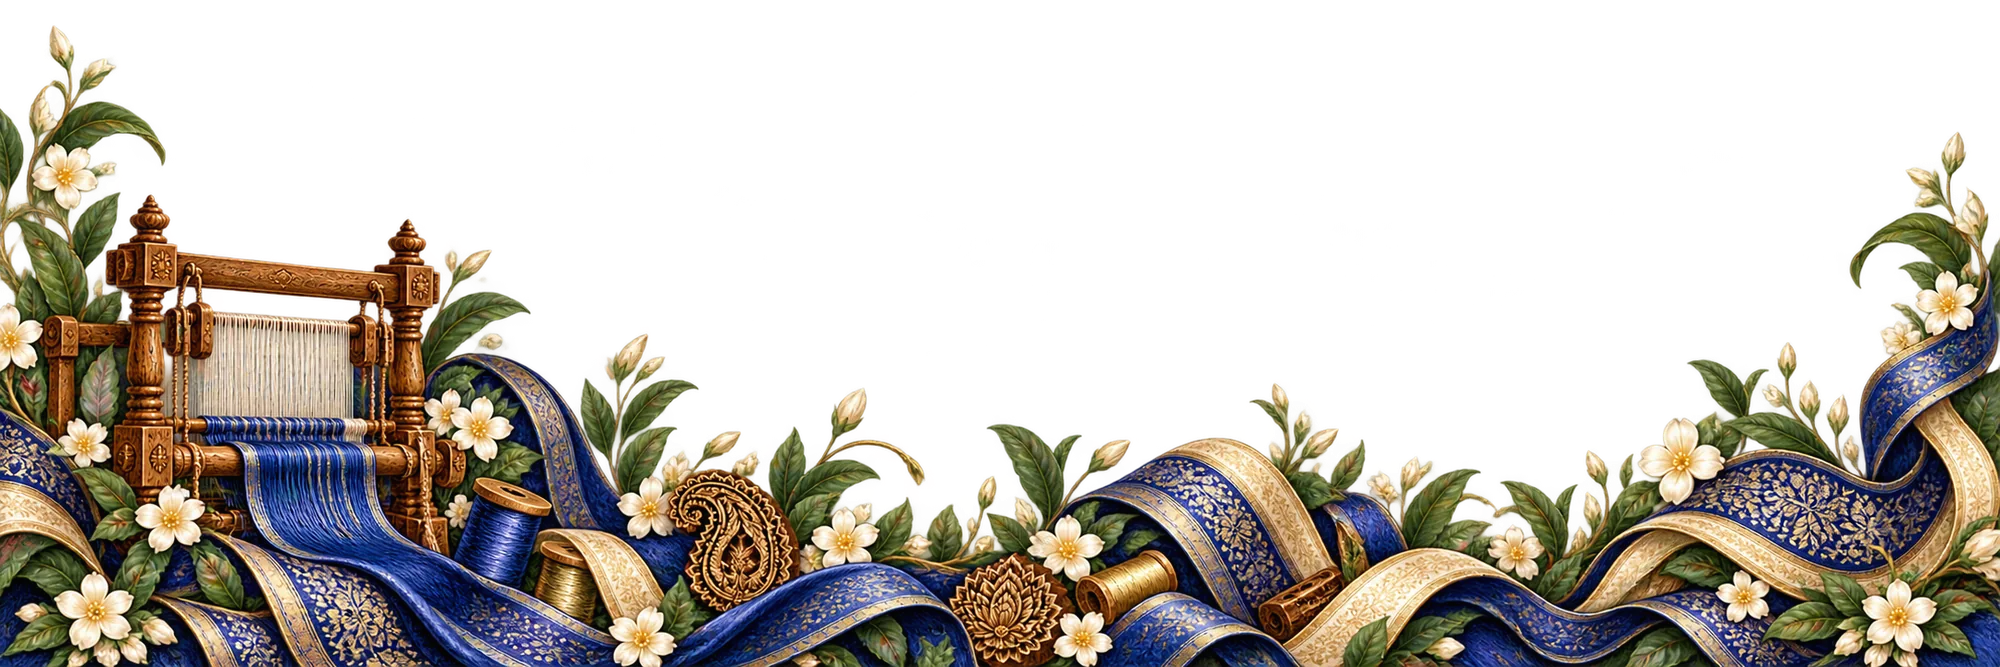
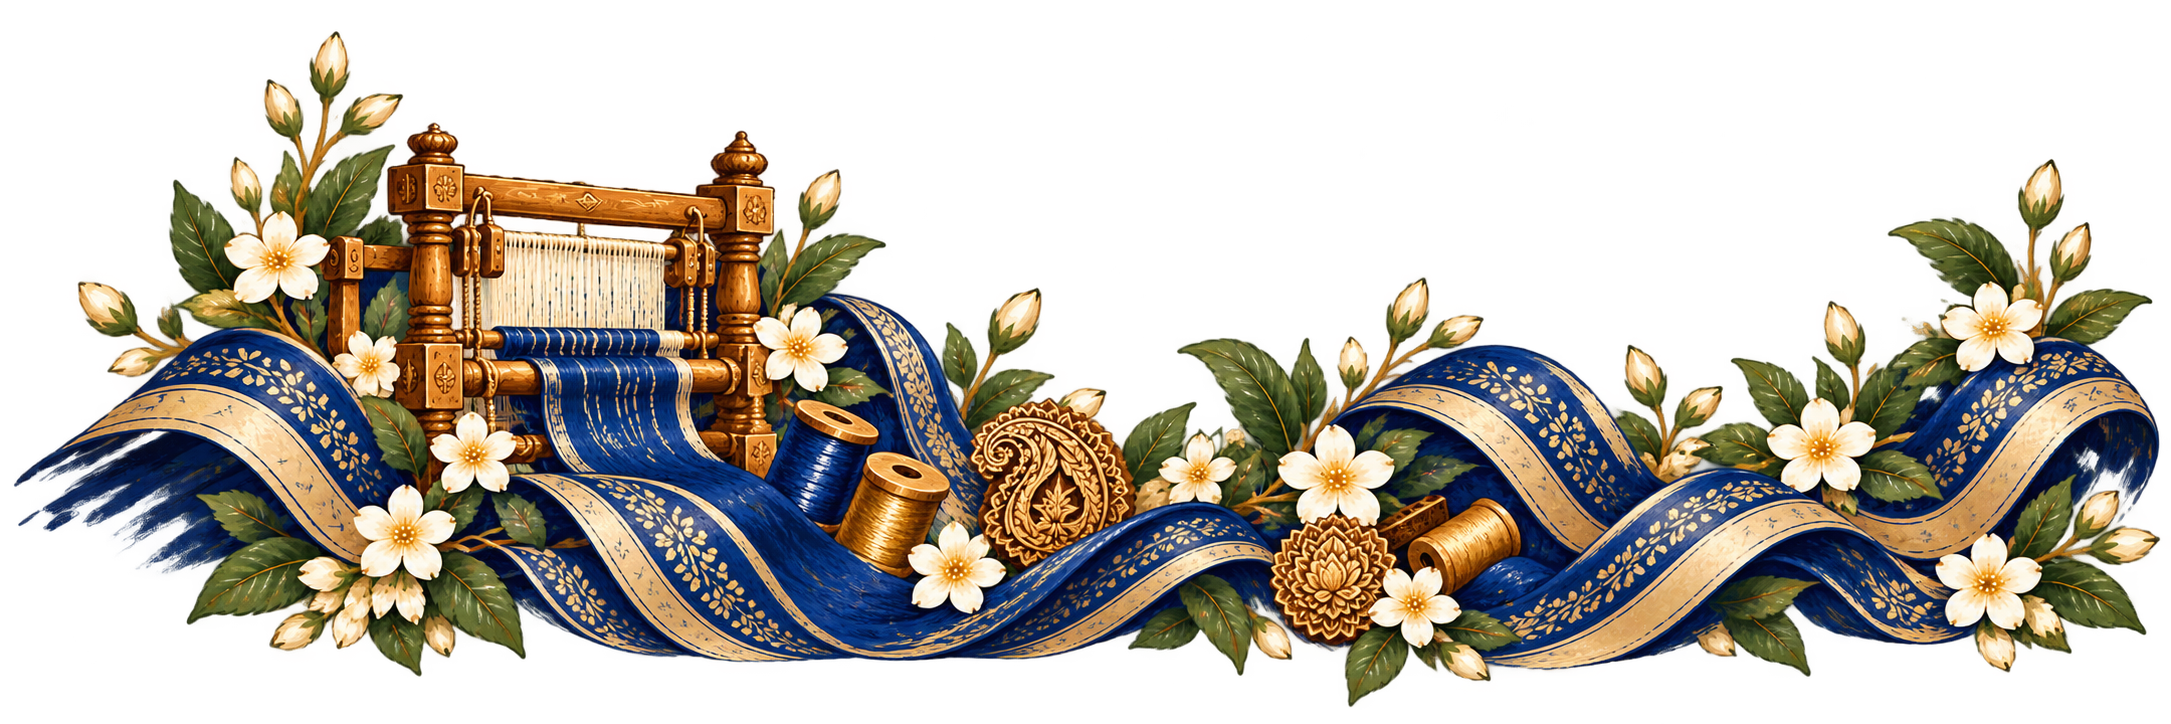
updated the product info 🚀

diff --git a/app/admin/image-cropper.tsx b/app/admin/image-cropper.tsx
@@ -91,13 +91,17 @@ export function CropDialog({ file, onDone, onCancel }: { file: File; onDone: (cr
         />
         {/* thirds grid so composition is easy to judge */}
         <div aria-hidden className="pointer-events-none absolute inset-0 border border-white/70 [background:linear-gradient(to_right,transparent_33%,rgb(255_255_255/.35)_33%,rgb(255_255_255/.35)_calc(33%+1px),transparent_calc(33%+1px),transparent_66%,rgb(255_255_255/.35)_66%,rgb(255_255_255/.35)_calc(66%+1px),transparent_calc(66%+1px)),linear-gradient(to_bottom,transparent_33%,rgb(255_255_255/.35)_33%,rgb(255_255_255/.35)_calc(33%+1px),transparent_calc(33%+1px),transparent_66%,rgb(255_255_255/.35)_66%,rgb(255_255_255/.35)_calc(66%+1px),transparent_calc(66%+1px))]" />
-        {/* head-size guide: a full-length look fills about 90% of the frame, so the head is roughly 1/8 of that, with a little headroom above */}
-        <div aria-hidden className="pointer-events-none absolute left-2 flex items-center gap-1.5" style={{ top: `${HEAD_TOP}%`, height: `${HEAD_LEN}%` }}>
-          <span className="h-full w-2 border-y-2 border-l-2 border-white/90" />
-          <span className="rounded-sm bg-kajal/60 px-1 py-0.5 text-[10px] leading-none text-white">Head</span>
-        </div>
+        {/* head-size guide: two full-width lines like the grid, top of head and chin. A full-length look fills about 90% of the frame, so the head is roughly 1/8 of that, with a little headroom above */}
+        {[
+          [HEAD_TOP, "Top of head"],
+          [HEAD_TOP + HEAD_LEN, "Chin"],
+        ].map(([top, text]) => (
+          <div key={text} aria-hidden className="pointer-events-none absolute inset-x-0 border-t border-dashed border-white/90" style={{ top: `${top}%` }}>
+            <span className="absolute left-1.5 top-0.5 rounded-sm bg-kajal/60 px-1 py-0.5 text-[9px] leading-none text-white">{text}</span>
+          </div>
+        ))}
       </div>
-      <p className="mt-2 text-center text-[11px] text-kajal/50">Line up the head with the bracket for a full-length look.</p>
+      <p className="mt-2 text-center text-[11px] text-kajal/50">Fit the head between the two dashed lines for a full-length look.</p>
       <label className="mt-4 flex items-center gap-3 text-xs">
         Zoom
         <input type="range" min={1} max={MAX_ZOOM} step={0.01} value={zoom} onChange={(e) => changeZoom(+e.target.value)} className="flex-1" />

diff --git a/app/(shop)/product-grid.tsx b/app/(shop)/product-grid.tsx
@@ -26,7 +26,7 @@ export function ProductGrid({ products, row = false, reverse = false }: { produc
         className={`group min-w-0 ${row ? "w-48 min-[400px]:w-56 sm:w-72 lg:w-80 shrink-0 pr-4 sm:pr-6" : ""}`}
       >
         <div className="relative aspect-[4/5] bg-line">
-          {p.badge && <span className="absolute left-0 top-3 z-[1] bg-rani px-2.5 py-1 text-[11px] font-medium uppercase tracking-wider text-mallige">{p.badge}</span>}
+          {p.badge && <span className="absolute bottom-3 left-0 z-[1] bg-rani px-2.5 py-1 text-[11px] font-medium uppercase tracking-wider text-mallige">{p.badge}</span>}
           {p.images[0] && (
             <Image
               src={p.images[0]}

diff --git a/lib/site.ts b/lib/site.ts
@@ -17,4 +17,4 @@ export const BRAND = "Tantvam";
 export const BRAND_ALIASES = ["The Tantava", "Tantava", "thetantava.in"];
 export const SITE_DESCRIPTION =
   "Tantvam: designer-level ethnic, indo-western and casual wear for women in every size from XS to XXXL, at honest prices. Anarkalis and kurtas for weddings, festivals and every day, delivered across India.";
-export const OG_IMAGE = { url: "/og-image.jpg", width: 1200, height: 630, alt: "Tantvam: ethnic wear for women, XS to XXXL" };
+export const OG_IMAGE = { url: "/og-image.webp", width: 1200, height: 630, alt: "Tantvam: ethnic wear for women, XS to XXXL" };

diff --git a/app/(shop)/our-story/page.tsx b/app/(shop)/our-story/page.tsx
@@ -13,7 +13,6 @@ export const metadata: Metadata = pageMeta({
   title: "Our story",
   description: "Tantvam began with one outfit Manasi couldn't find. Designer-level ethnic, indo-western and casual wear, in every size from XS to XXXL, at honest prices.",
   path: "/our-story",
-  images: ["/aboutus-image.webp"],
 });
 
 const promise = [
